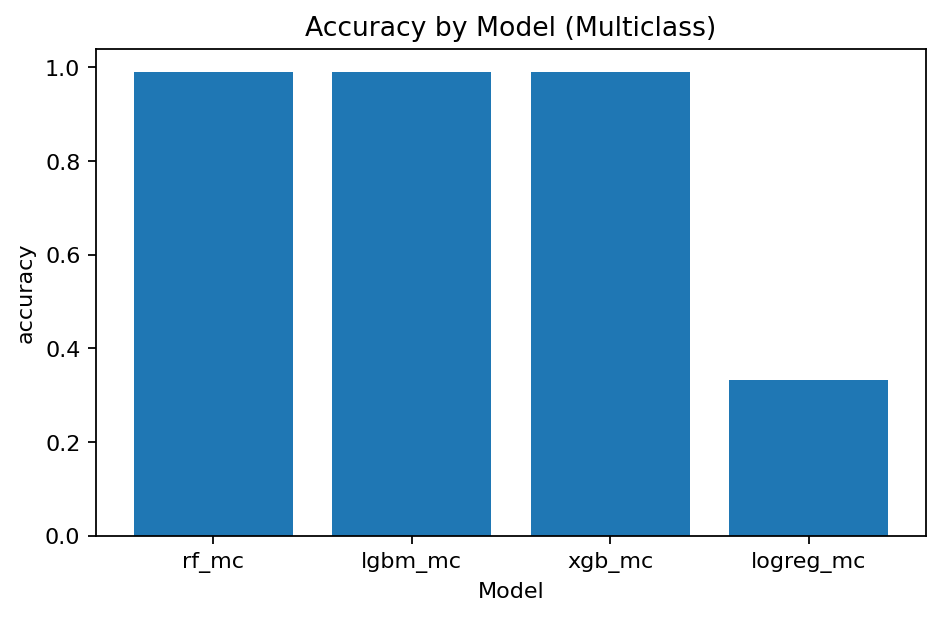
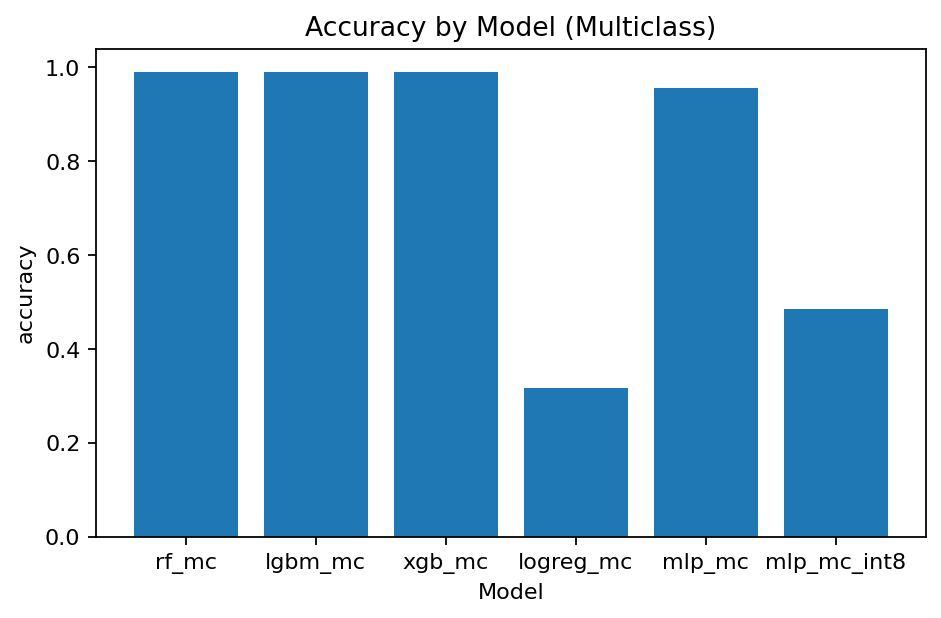
Update scripts and data

diff --git a/scripts/benchmark_bars.py b/scripts/benchmark_bars.py
@@ -1,0 +1,191 @@
+from __future__ import annotations
+
+import argparse
+import re
+from pathlib import Path
+import matplotlib.pyplot as plt
+import matplotlib.patches as patches
+import numpy as np
+import pandas as pd
+
+
+def clean_platform_name(folder_name: str) -> str:
+    name = re.sub(r"[_\-]+", " ", folder_name).strip()
+    return name.title() if not name.isupper() else name
+
+
+def parse_val_and_std(val: float | str) -> tuple[float, float]:
+    if pd.isna(val):
+        return np.nan, 0.0
+    if isinstance(val, (int, float)):
+        return float(val), 0.0
+    val_str = str(val)
+    if "±" in val_str:
+        parts = val_str.split("±")
+        return float(parts[0].strip()), float(parts[1].strip())
+    try:
+        return float(val_str), 0.0
+    except ValueError:
+        return np.nan, 0.0
+
+
+def load_all_benchmarks(input_dir: Path) -> pd.DataFrame:
+    rows = []
+    csv_files = sorted(list(set(input_dir.glob("*/*/*.csv"))))
+
+    for file_path in csv_files:
+        rel_path = file_path.relative_to(input_dir)
+        parts = rel_path.parts
+        if len(parts) < 3:
+            continue
+
+        platform_raw, task_raw = parts[0], parts[1].lower()
+        if task_raw not in ["binary", "multiclass"]:
+            continue
+
+        try:
+            df = pd.read_csv(file_path)
+        except Exception:
+            continue
+
+        if "model" not in df.columns:
+            continue
+
+        if "run_id" in df.columns:
+            df_avg = df[df["run_id"].astype(str) == "avg"].copy()
+            if df_avg.empty:
+                df_avg = df[df["run_id"].astype(str) != "avg"].groupby("model", as_index=False).mean(numeric_only=True)
+        else:
+            df_avg = df.copy()
+
+        processor_name = clean_platform_name(platform_raw)
+
+        for _, row in df_avg.iterrows():
+            record = {
+                "processor": processor_name,
+                "task": task_raw,
+                "model": row["model"],
+            }
+            for metric in ["total_ms_per_1k", "predict_ms_per_1k", "transform_ms_per_1k"]:
+                if metric in row:
+                    mean_val, std_val = parse_val_and_std(row[metric])
+                    record[f"{metric}_mean"] = mean_val
+                    record[f"{metric}_std"] = std_val
+
+            rows.append(record)
+
+    return pd.DataFrame(rows)
+
+
+def plot_task_metric(
+    df_task: pd.DataFrame,
+    task_name: str,
+    metric: str,
+    output_path: Path,
+    style: str = "overlay",  # overlay, yerr, text
+) -> None:
+    mean_col = f"{metric}_mean"
+    std_col = f"{metric}_std"
+
+    if df_task.empty or mean_col not in df_task.columns:
+        return
+
+    pivot_mean = df_task.pivot_table(index="model", columns="processor", values=mean_col, aggfunc="mean")
+    pivot_std = df_task.pivot_table(index="model", columns="processor", values=std_col, aggfunc="mean").fillna(0)
+
+    if pivot_mean.empty:
+        return
+
+    fig, ax = plt.subplots(figsize=(11, 6))
+
+    if style == "yerr":
+        pivot_mean.plot(kind="bar", width=0.8, ax=ax, yerr=pivot_std, capsize=4, ecolor="black", error_kw={"alpha": 0.7})
+    else:
+        pivot_mean.plot(kind="bar", width=0.8, ax=ax)
+
+    if style == "overlay":
+        for container_idx, container in enumerate(ax.containers):
+            for bar_idx, bar in enumerate(container):
+                m = pivot_mean.iloc[bar_idx, container_idx]
+                s = pivot_std.iloc[bar_idx, container_idx]
+                
+                if pd.notna(m) and s > 0:
+                    x = bar.get_x()
+                    w = bar.get_width()
+                    y_start = max(0, m - s)
+                    height = (m + s) - y_start
+                    
+                    rect = patches.Rectangle(
+                        (x, y_start),
+                        w,
+                        height,
+                        linewidth=1.2,
+                        edgecolor="black",
+                        linestyle="--",
+                        facecolor="black",
+                        alpha=0.35,
+                        zorder=3
+                    )
+                    ax.add_patch(rect)
+
+    for container_idx, container in enumerate(ax.containers):
+        for bar_idx, bar in enumerate(container):
+            m = pivot_mean.iloc[bar_idx, container_idx]
+            s = pivot_std.iloc[bar_idx, container_idx]
+            if pd.isna(m):
+                continue
+            
+            label = f"{m:.1f}\n±{s:.2f}" if s > 0 else f"{m:.1f}"
+            y_pos = m + s if style in ["overlay", "yerr"] else m
+            ax.text(
+                bar.get_x() + bar.get_width() / 2,
+                y_pos + (pivot_mean.max().max() * 0.015),
+                label,
+                ha="center",
+                va="bottom",
+                fontsize=7.5,
+                rotation=90,
+            )
+
+    metric_labels = {
+        "total_ms_per_1k": "Total (ms / 1000 samples)",
+        "predict_ms_per_1k": "Predict (ms / 1000 samples)",
+        "transform_ms_per_1k": "Transform (ms / 1000 samples)",
+    }
+    
+    ax.set_xlabel("Model", fontweight="bold")
+    ax.set_ylabel(metric_labels.get(metric, metric), fontweight="bold")
+    ax.set_title(f"Comparing {metric} - {task_name.capitalize()}", fontsize=13, fontweight="bold", pad=15)
+    ax.grid(axis="y", linestyle="--", alpha=0.35)
+    ax.legend(title="Platform", bbox_to_anchor=(1.02, 1), loc="upper left")
+    ax.set_ylim(bottom=0, top=ax.get_ylim()[1] * 1.15)
+
+    plt.xticks(rotation=0)
+    plt.tight_layout()
+
+    output_path.parent.mkdir(parents=True, exist_ok=True)
+    plt.savefig(output_path, dpi=300, bbox_inches="tight")
+    plt.close()
+    print(f"Chart saved to: {output_path}")
+
+
+def main() -> None:
+    parser = argparse.ArgumentParser()
+    parser.add_argument("--input-dir", type=Path, default=Path("benchmark"))
+    parser.add_argument("--output-dir", type=Path, default=Path("benchmark/charts"))
+    parser.add_argument("--style", choices=["overlay", "yerr", "text"], default="overlay")
+    args = parser.parse_args()
+
+    data = load_all_benchmarks(args.input_dir)
+    if data.empty:
+        return
+
+    for task in data["task"].unique():
+        df_task = data[data["task"] == task]
+        for metric in ["total_ms_per_1k", "predict_ms_per_1k", "transform_ms_per_1k"]:
+            output_filename = args.output_dir / f"{task}_{metric}.png"
+            plot_task_metric(df_task, task, metric, output_filename, style=args.style)
+
+
+if __name__ == "__main__":
+    main()

diff --git a/scripts/run_mann-whitney.py b/scripts/run_mann-whitney.py
@@ -2,6 +2,8 @@ from __future__ import annotations
 import os
 import argparse
 import pandas as pd
+import numpy as np
+import matplotlib.pyplot as plt
 from scipy import stats
 
 def load_ratios(systems: list[str], benchmark_dir: str, subtask: str) -> list[float]:
@@ -18,8 +20,54 @@ def load_ratios(systems: list[str], benchmark_dir: str, subtask: str) -> list[fl
             print(f"Warning: File not found: {csv_path}")
     return ratios
 
+def save_chart(
+    legacy_ratios: list[float], 
+    modern_ratios: list[float], 
+    legacy_systems: list[str], 
+    modern_systems: list[str], 
+    subtask: str, 
+    output_dir: str
+):
+    os.makedirs(output_dir, exist_ok=True)
+
+    plt.figure(figsize=(9, 6))
+
+    legacy_label = "Legacy\n(" + ", ".join(legacy_systems) + ")"
+    modern_label = "Modern\n(" + ", ".join(modern_systems) + ")"
+
+    box = plt.boxplot(
+        [legacy_ratios, modern_ratios],
+        labels=[legacy_label, modern_label],
+        patch_artist=True,
+        widths=0.4,
+        showfliers=False
+    )
+
+    colors = ["#6baed6", "#fc9272"]
+    for patch, color in zip(box["boxes"], colors):
+        patch.set_facecolor(color)
+
+    np.random.seed(42)
+    for i, data in enumerate([legacy_ratios, modern_ratios], start=1):
+        x = np.random.normal(i, 0.04, size=len(data))
+        plt.plot(x, data, "ro", color="black", alpha=0.6, markersize=5)
+
+    plt.axhline(1.0, color="red", linestyle="--", linewidth=1, label="Parity (Ratio = 1.0)")
+    plt.title(f"LightGBM / XGBoost Ratio Distribution ({subtask.capitalize()})", fontsize=14, fontweight="bold")
+    plt.xlabel("System Category", fontsize=12)
+    plt.ylabel("LGBM / XGB Ratio", fontsize=12)
+    plt.legend(loc="upper right")
+    plt.grid(axis="y", linestyle=":", alpha=0.7)
+
+    chart_filename = f"lgbm_xgb_ratio_distribution_{subtask}.png"
+    chart_path = os.path.join(output_dir, chart_filename)
+    plt.savefig(chart_path, dpi=300, bbox_inches="tight")
+    plt.close()
+    print(f"Chart saved to: {chart_path}")
+
 def run_mann_whitney_analysis(benchmark_dir: str, legacy_systems: list[str], modern_systems: list[str]):
     subtasks = ["binary", "multiclass"]
+    charts_dir = os.path.join(benchmark_dir, "charts")
 
     for subtask in subtasks:
         legacy_ratios = load_ratios(legacy_systems, benchmark_dir, subtask)
@@ -28,6 +76,8 @@ def run_mann_whitney_analysis(benchmark_dir: str, legacy_systems: list[str], mod
         if not legacy_ratios or not modern_ratios:
             print(f"Skipped {subtask}: not enough data (Legacy: {len(legacy_ratios)}, Modern: {len(modern_ratios)})")
             continue
+
+        save_chart(legacy_ratios, modern_ratios, legacy_systems, modern_systems, subtask, charts_dir)
 
         stat, p_val = stats.mannwhitneyu(legacy_ratios, modern_ratios, alternative="greater")
 

diff --git a/scripts/compare_models_mc.py b/scripts/compare_models_mc.py
@@ -83,10 +83,10 @@ def plot_bar(df: pd.DataFrame, column: str, out_png: str, title: str):
     plt.ylabel(column)
     _savefig(out_png)
 
-def per_class_table(base_outdir: str, model_names: List[str]) -> pd.DataFrame:
+def per_class_table(models_dir: str, model_names: List[str]) -> pd.DataFrame:
     merged = None
     for name in model_names:
-        p = os.path.join(base_outdir, "models", name, "per_class_report.csv")
+        p = os.path.join(models_dir, "models", name, "per_class_report.csv")
         if not os.path.exists(p): 
             continue
         df = pd.read_csv(p)
@@ -102,7 +102,7 @@ def per_class_table(base_outdir: str, model_names: List[str]) -> pd.DataFrame:
             merged = pd.merge(merged, df, on="class", how="outer")
     return merged if merged is not None else pd.DataFrame()
 
-def benchmark_inference(models_dir: str, base_outdir: str, csv_path: str, model_names: List[str], y_col: str = "type", sample_size: int = 10000, random_state: int = 42, num_runs: int = 5) -> pd.DataFrame:
+def benchmark_inference(models_dir: str, csv_path: str, model_names: List[str], y_col: str = "type", sample_size: int = 10000, random_state: int = 42, num_runs: int = 5) -> pd.DataFrame:
     df = pd.read_csv(csv_path, engine="pyarrow")
     if y_col not in df.columns:
         raise ValueError(f"CSV must contain '{y_col}' column")
@@ -319,7 +319,7 @@ def main():
     plot_bar(df, "pr_auc_macro", os.path.join(summary_dir, "pr_auc_macro.png"), "PR AUC (macro) by Model")
     plot_bar(df, "total_size_mb", os.path.join(summary_dir, "total_size_mb.png"), "Model+Preproc Size (MB)")
 
-    pct = per_class_table(base_outdir, args.models)
+    pct = per_class_table(args.models_dir, args.models)
     if not pct.empty:
         pct.to_csv(os.path.join(summary_dir, "per_class_report_merged.csv"), index=False)
         print("Per-class report merged saved to", os.path.join(summary_dir, "per_class_report_merged.csv"))

diff --git a/README.md b/README.md
@@ -132,7 +132,7 @@ python scripts/quantize_model_mc.py --input_dir train_mc/models/mlp_mc --csv dat
 python scripts/compare_models_mc.py --outdir benchmark/sys1/multiclass --models-dir train_mc --models rf_mc lgbm_mc xgb_mc logreg_mc mlp_mc mlp_mc_int8 --benchmark --sample_size 10000
 
 # 9) Mann-Whitney lgbm/xgb
-python scripts/run_mann-whitney.py --benchmark benchmark --legacy apple_m1,bcm2712,corei7-3770,corei5-7200U --modern apple_m5,ryzen7_7700
+python scripts/run_mann-whitney.py --benchmark benchmark --legacy apple_m1,bcm2712,corei7_3770,corei5_7200U --modern apple_m5,ryzen7_7700
 ```
 
 ## Artifact layout
